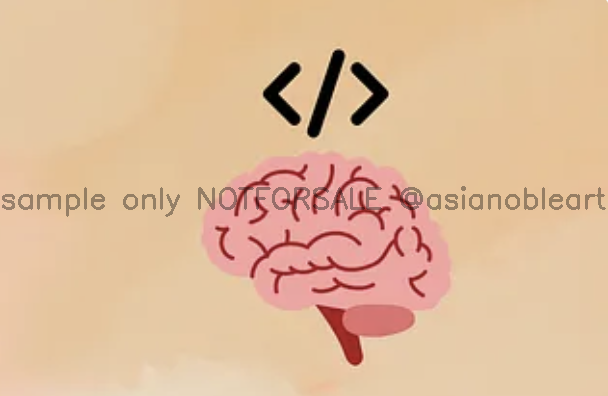
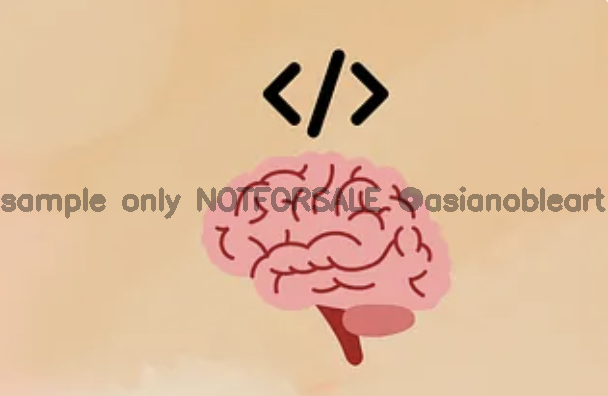
cleaned code up and added some doc strings

Changed region(s): [[0.3125, 0.4545, 0.625, 0.5455], [0.6562, 0.4848, 1.0, 0.5455], [0.0, 0.4848, 0.2812, 0.5455]]

diff --git a/watermark_utils.py b/watermark_utils.py
@@ -2,6 +2,7 @@ import cv2
 import numpy as np
 
 def get_contrasting_color(image, position = (50,50), font_scale=1, thickness=2):
+    '''this function should sample the image and then give back a contrasting color, ideally black or white'''
     x, y = position
     h, w, _ = image.shape
     x = min(max(x, 0), w-1)
@@ -12,28 +13,24 @@ def get_contrasting_color(image, position = (50,50), font_scale=1, thickness=2):
     x_end = min(x + sample_size//2, w-1)
     y_end = min(y + sample_size//2, h-1)
     region = image[y_start:y_end, x_start:x_end]
-    avg_color = np.mean(region, axis=(0,1))
+    avg_color = np.mean(region, axis=(0,1)) #taking the mean of the area we're sampling
     luminance = 0.299*avg_color[2] + 0.587*avg_color[1] + 0.114*avg_color[0]
     if luminance > 128:
-        return (0, 0, 0)
+        return (0, 0, 0) # this is black, you can change the colors just use the diff codes for RGB between 0 to 255
     else:
         return (255, 255, 255)
 
 def calculate_font_scale(image_width, text, font=cv2.FONT_HERSHEY_SIMPLEX, thickness=2, max_width_ratio=1.0):
     '''this calculates the scale of the font dynamically'''
-    # Start with a base font scale
     font_scale = 1.0
-    # Get the text width at base font scale
-    (text_width, _), _ = cv2.getTextSize(text, font, font_scale, thickness)
-    # Calculate the scale factor to fit the text within max_width_ratio * image_width
+    (text_width, smth), smth = cv2.getTextSize(text, font, font_scale, thickness) # wanna get a tuple here
     scale_factor = (max_width_ratio * image_width) / text_width
-    # Do not allow the text to be larger than the image
-    if scale_factor > 1:
+    if scale_factor > 1: # limit the text to the image's width yo
         scale_factor = 1
     return scale_factor
 
-def add_transparent_text(image, text, font=cv2.FONT_HERSHEY_SIMPLEX, thickness=2, alpha=0.35, max_width_ratio=1.0):
-    '''the function that adds the text to the image'''
+def add_transparent_text(image, text, font=cv2.FONT_HERSHEY_SIMPLEX, thickness=3, alpha=0.35, max_width_ratio=1.0):
+    '''the function that adds the text to the image. thickness is integer only btw, alpha is your transparency'''
     h, w = image.shape[:2]
     font_scale = calculate_font_scale(w, text, font, thickness, max_width_ratio)
     (text_width, text_height), baseline = cv2.getTextSize(text, font, font_scale, thickness)
